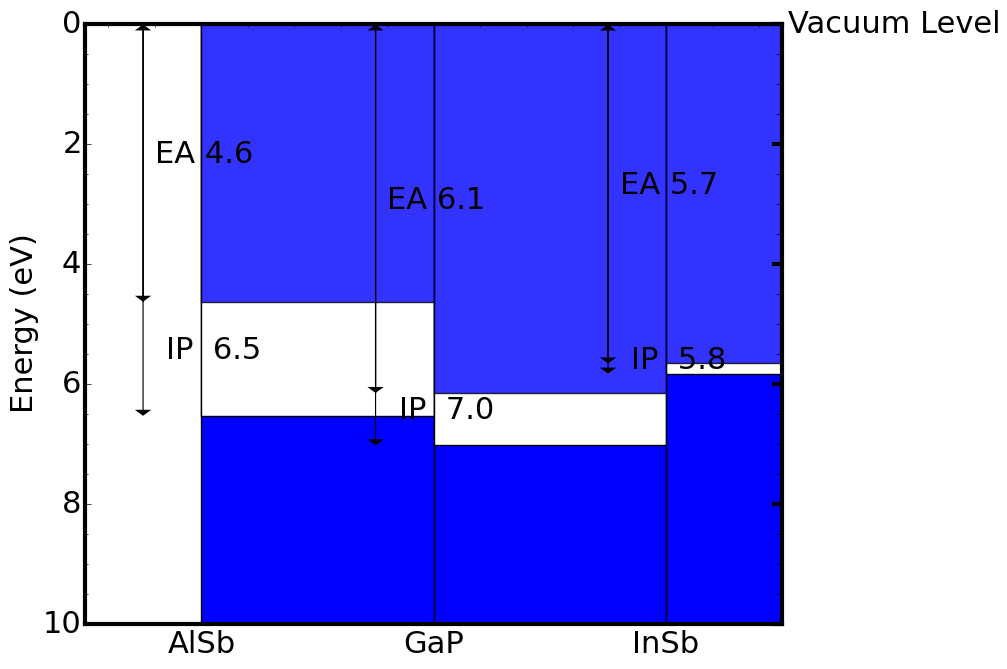
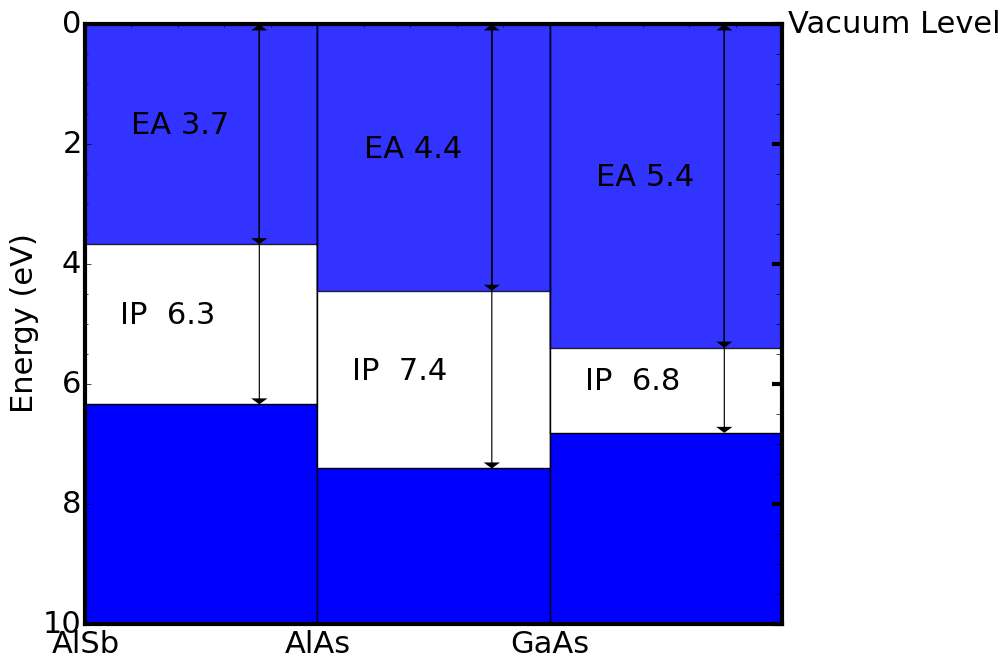
edit plotting_tools.py

diff --git a/templates/index.html b/templates/index.html
@@ -159,47 +159,56 @@
                 <button type="submit" class="btn btn-primary" value="send">Calculate!</button>
             </form>
     </div>
-    <br>
 
-    <div class="container">
-        <div class="row">
-            <div class="mt" id="mt-1">
-                <p>Material1</p>
-                <p>e.g. Channel..</p>
+
+    <div class="row note">
+        <div class="col-sm-6">
+            <div class="card">
+                <div class="card-body">
+                    <h5 class="card-title">Structure Example</h5>
+                    <div class="container" id="structure">
+                        <div class="row">
+                            <div class="col-sm">
+                                <div class="mt" id="mt-1">
+                                    <h5>Material1</h5>
+                                    <p>e.g. Channel..</p>
+                                </div>
+                                <div class="mt" id="mt-2">
+                                    <h5>Material2</h5>
+                                    <p>e.g. Buffer..</p>
+                                </div>
+                                <div class="mt" id="mt-3">
+                                    <h5>Material3</h5>
+                                    <p>e.g. Substrate..</p>
+                                </div> 
+                            </div>  
+                            <p class="col-sm">
+                                First of all, you need to set the material3 as reference material like buffer material, or substrate one.
+                                And then, you can just set following epitaxial layer on the reference material (i.e. material3).
+                                Both material1 and material2 are got strained by material3, please make sure you have correct order of epitaxial layer
+                                before pushing "Calculate" button.
+                            </p>
+                        </div>
+                    </div>
+                    <a href="https://github.com/funabashi800/Bandoffset" class="btn btn-primary">Check Reference! </a>
+                </div>
             </div>
         </div>
-        <div class="row">
-            <div class="mt" id="mt-2">
-                <p>Material2</p>
-                <p>e.g. Buffer..</p>
+        <div class="col-sm-6">
+            <div class="card">
+                <div class="card-body">
+                    <h5 class="card-title">What's this program for?</h5>
+                    <p class="card-text">
+                        This is a tool for band alignment simulation considering strain effect in a heterostructure of III-V materials. You can
+                        chose three material name from the form boxes and input compound material 
+                        composition in 0.0 ~ 1.0 where x is for a ternary material while, y is for a quaternary 
+                        material. hence, if you want to get a binary or a ternary material band alignment, you can just inpiut 
+                        only x value. 
+                    </p>
+                    <a href="https://github.com/funabashi800/Bandoffset" class="btn btn-primary">Check Code!</a>
+                </div>
             </div>
         </div>
-        <div class="row">
-            <div class="mt" id="mt-3">
-                <p>Material3</p>
-                <p>e.g. Substrate, Back barrier..</p>
-            </div>
-        </div>
-        
-    </div>
-
-    <div class="container" id="note">
-        <div class="row">
-            <h3>Band Alignment</h3>
-        </div>
-        <div class="row">
-            <h5>This is a tool for band alignment simulation considering 
-                strain effect in a heterostructure of III-V materials. You can
-                chose three material name from the form boxes and input compound material 
-                composition in 0.0 ~ 1.0 where x is for a ternary material while, y is for a quaternary 
-                material. hence, if you want to get a binary or a ternary material band alignment, you can just inpiut 
-                only x value. 
-            </h5>
-        </div>
-        <div class="row">
-
-        </div>
-
     </div>
 
 

diff --git a/templates/main.css b/templates/main.css
@@ -1,5 +1,6 @@
 body {
-    background-image: url("http://getwallpapers.com/wallpaper/full/b/8/3/72787.jpg")
+    background-image: url("http://getwallpapers.com/wallpaper/full/b/8/3/72787.jpg");
+    font-family: Cambria, Cochin, Georgia, Times, 'Times New Roman', serif;
 }
 select {
     font-size: 20px;
@@ -23,12 +24,13 @@ input[type=text] {
 }
 
 .mt {
-    width: 300px;
-    height: 100px;
-    border: 1.5px solid black;
+    max-width: 200px;
+    max-height: 100px;
+    border: 1.0px solid black;
     text-align: center;
     position: relative;
-    padding: 35px;
+    margin: auto;
+    padding: 10px;
 }
 
 #mt-1 {
@@ -49,4 +51,18 @@ input[type=text] {
 
 sub {
     font-size: 5px;
+}
+
+.note {
+    text-align: center;
+    align-items: center;
+    position: relative;
+    margin: 30px;
+    margin-left: 20px;
+    margin-right: 20px;
+}
+
+a {
+    margin: auto;
+    font-weight: bold;
 }

diff --git a/app.py b/app.py
@@ -12,60 +12,60 @@ def student():
 
 @app.route('/result', methods = ['POST', 'GET'])
 def result():
-    if request.method == 'POST':
-        material1 = request.form.get('material1')
-        material2 = request.form.get('material2')
-        material3 = request.form.get('material3')
-        a = getattr(param_all, material1)
-        b = getattr(param_all, material2)
-        c = getattr(param_all, material3)
-        x1 = request.form.get('x1')
-        y1 = request.form.get('y1')
-        x2 = request.form.get('x2')
-        y2 = request.form.get('y2')
-        x3 = request.form.get('x3')
-        y3 = request.form.get('y3')
-        material_1 = a(float(x1), float(y1))
-        material_2 = b(float(x2), float(y2))
-        material_3 = c(float(x3), float(y3))
+        if request.method == 'POST':
+            material1 = request.form.get('material1')
+            material2 = request.form.get('material2')
+            material3 = request.form.get('material3')
+            a = getattr(param_all, material1)
+            b = getattr(param_all, material2)
+            c = getattr(param_all, material3)
+            x1 = request.form.get('x1')
+            y1 = request.form.get('y1')
+            x2 = request.form.get('x2')
+            y2 = request.form.get('y2')
+            x3 = request.form.get('x3')
+            y3 = request.form.get('y3')
+            material_1 = a(float(x1), float(y1))
+            material_2 = b(float(x2), float(y2))
+            material_3 = c(float(x3), float(y3))
 
-        #### on channel
-        a_1 = material_3.lattice_constant
-        d = 2.0 * material_1.elastic_constant_12/material_1.elastic_constant_11
-        a_2 = material_1.lattice_constant * (1.0-d*(a_1/material_1.lattice_constant-1.0))
-        ips_1 = a_1/material_1.lattice_constant-1.0
-        ips_2 = a_2/material_1.lattice_constant-1.0
-        delta_valence = material_1.deformation_valence*(2*ips_1+ips_2)
-        delta_conduction = material_1.deformation_conduction*(2*ips_1+ips_2)
-        material_1.valence_band = material_1.valence_band_average + material_1.spin_orbit_splitting/3.0 + delta_valence
-        material_1.valence_band = -1.0 * material_1.valence_band
-        material_1.conduction_band = material_1.valence_band_average + material_1.spin_orbit_splitting/3.0 + material_1.band_gap + delta_conduction
-        material_1.conduction_band = -1.0 * material_1.conduction_band
+            #### on channel
+            a_1 = material_3.lattice_constant
+            d = 2.0 * material_1.elastic_constant_12/material_1.elastic_constant_11
+            a_2 = material_1.lattice_constant * (1.0-d*(a_1/material_1.lattice_constant-1.0))
+            ips_1 = a_1/material_1.lattice_constant-1.0
+            ips_2 = a_2/material_1.lattice_constant-1.0
+            delta_valence = material_1.deformation_valence*(2*ips_1+ips_2)
+            delta_conduction = material_1.deformation_conduction*(2*ips_1+ips_2)
+            material_1.valence_band = material_1.valence_band_average + material_1.spin_orbit_splitting/3.0 + delta_valence
+            material_1.valence_band = -1.0 * material_1.valence_band
+            material_1.conduction_band = material_1.valence_band_average + material_1.spin_orbit_splitting/3.0 + material_1.band_gap + delta_conduction
+            material_1.conduction_band = -1.0 * material_1.conduction_band
 
-        #### on barrier
-        a_1 = material_3.lattice_constant
-        d = 2.0 * material_2.elastic_constant_12/material_2.elastic_constant_11
-        a_2 = material_2.lattice_constant * (1.0-d*(a_1/material_2.lattice_constant-1.0))
-        ips_1 = a_1/material_2.lattice_constant-1.0
-        ips_2 = a_2/material_2.lattice_constant-1.0
-        delta_valence = material_2.deformation_valence*(2*ips_1+ips_2)
-        delta_conduction = material_2.deformation_conduction*(2*ips_1+ips_2)
-        material_2.valence_band = material_2.valence_band_average + material_2.spin_orbit_splitting/3.0 + delta_valence
-        material_2.valence_band = -1.0 * material_2.valence_band
-        material_2.conduction_band = material_2.valence_band_average + material_2.spin_orbit_splitting/3.0 + material_2.band_gap + delta_conduction
-        material_2.conduction_band = -1.0 * material_2.conduction_band
+            #### on barrier
+            a_1 = material_3.lattice_constant
+            d = 2.0 * material_2.elastic_constant_12/material_2.elastic_constant_11
+            a_2 = material_2.lattice_constant * (1.0-d*(a_1/material_2.lattice_constant-1.0))
+            ips_1 = a_1/material_2.lattice_constant-1.0
+            ips_2 = a_2/material_2.lattice_constant-1.0
+            delta_valence = material_2.deformation_valence*(2*ips_1+ips_2)
+            delta_conduction = material_2.deformation_conduction*(2*ips_1+ips_2)
+            material_2.valence_band = material_2.valence_band_average + material_2.spin_orbit_splitting/3.0 + delta_valence
+            material_2.valence_band = -1.0 * material_2.valence_band
+            material_2.conduction_band = material_2.valence_band_average + material_2.spin_orbit_splitting/3.0 + material_2.band_gap + delta_conduction
+            material_2.conduction_band = -1.0 * material_2.conduction_band
 
-        #### on substrate
-        material_3.valence_band = material_3.valence_band_average + material_3.spin_orbit_splitting/3.0
-        material_3.valence_band = -1.0 * material_3.valence_band
-        material_3.conduction_band = material_3.valence_band_average + material_3.spin_orbit_splitting/3.0 + material_3.band_gap
-        material_3.conduction_band = -1.0 * material_3.conduction_band
+            #### on substrate
+            material_3.valence_band = material_3.valence_band_average + material_3.spin_orbit_splitting/3.0
+            material_3.valence_band = -1.0 * material_3.valence_band
+            material_3.conduction_band = material_3.valence_band_average + material_3.spin_orbit_splitting/3.0 + material_3.band_gap
+            material_3.conduction_band = -1.0 * material_3.conduction_band
 
-        #### Plot Band Alignment
-        energies = [(material_1.conduction_band,material_1.valence_band),(material_2.conduction_band,material_2.valence_band),(material_3.conduction_band,material_3.valence_band)]
-        materials = [material1,material2,material3]
-        macro_plot.energy_band_alignment_diagram(energies,materials,limit=10,arrowhead=0.1)
-        return render_template('hello.html',name='Band Alignment', url='/static/images/BandAlignment.png')
+            #### Plot Band Alignment
+            energies = [(material_1.conduction_band,material_1.valence_band),(material_2.conduction_band,material_2.valence_band),(material_3.conduction_band,material_3.valence_band)]
+            materials = [material1,material2,material3]
+            macro_plot.energy_band_alignment_diagram(energies,materials,limit=10,arrowhead=0.1)
+            return render_template('hello.html',name='Band Alignment', url='/static/images/BandAlignment.png')
 
 if __name__ == '__main__':
     app.run(debug=True)

diff --git a/plotting_tools.py b/plotting_tools.py
@@ -63,7 +63,7 @@ def energy_band_alignment_diagram(energies, materials, limit=8., width=1.,
     ## Set the limits of the axes
     ax1.set_ylim(-limit,0)
     ax2.set_ylim(-limit,0)
-    ax1.set_xlim(-0.5,len(energies)-0.5)
+    ax1.set_xlim(-0.0,len(energies))
 
     ## Set the names
     ax1.set_xticks(ind)
@@ -76,15 +76,15 @@ def energy_band_alignment_diagram(energies, materials, limit=8., width=1.,
     ax1.set_ylabel('Energy (eV)', size=textsize)
 
 
-    os1 = 0.15   # Offset of the text 'IP' in the plot
-    os2 = 0.2    # Offset of the text 'EA' in the plot
+    os1 = -0.15   # Offset of the text 'IP' in the plot
+    os2 = -0.2    # Offset of the text 'EA' in the plot
 
     for i, en in enumerate(energies):
-        ax1.arrow(i-0.25,-en[0],0, en[0]-arrowhead, width=0.005,
+        ax1.arrow(i+0.75,-en[0],0, en[0]-arrowhead, width=0.005,
                   head_length=arrowhead,head_width=0.07, fc='black',ec='None')
-        ax1.arrow(i-0.25,0,0, -en[1]+arrowhead, width=0.005,
+        ax1.arrow(i+0.75,0,0, -en[1]+arrowhead, width=0.005,
                   head_length=arrowhead,head_width=0.07, fc='black',ec='None')
-        ax1.arrow(i-0.25,0,0, -en[0]+arrowhead, width=0.005,
+        ax1.arrow(i+0.75,0,0, -en[0]+arrowhead, width=0.005,
                   head_length=arrowhead,head_width=0.07, fc='black',ec='None')
         loc_ip = -(en[0] + en[1]) / 2
         ax1.text(i-os1,loc_ip,"IP  %3.1f"%en[1],fontsize=textsize)
@@ -98,8 +98,8 @@ def energy_band_alignment_diagram(energies, materials, limit=8., width=1.,
         ax2.minorticks_on()
 
     for ref in references:
-        ax1.hlines(-ref[1], -0.5, len(energies) - 0.5,
-                   linestyles='--', colors='r')
+        ax1.hlines(-ref[1], -0.5, len(energies) - 0.5,linestyles='--', colors='r')
+        #ax1.hlines(len(energies) - 0.45, -ref[1] - 0.1, ref[0],linestyles='--', colors='r')
         ax1.text(len(energies) - 0.45, -ref[1] - 0.1, ref[0],
                  fontsize=textsize, color='r')
 
